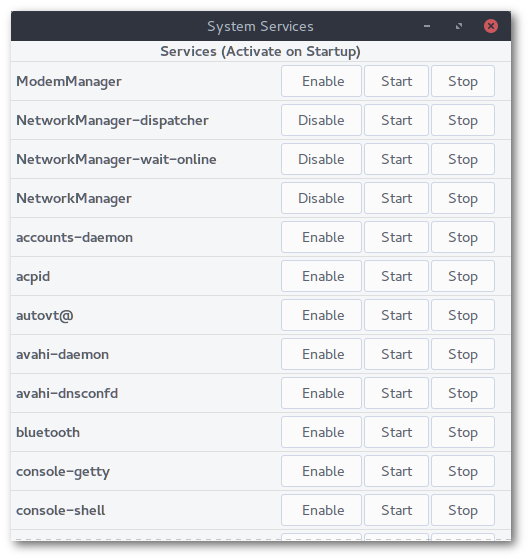
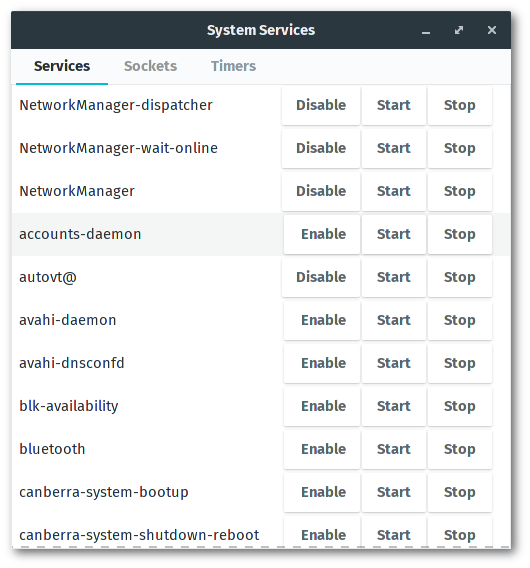
GUI Overhaul and Documentation Fixes

diff --git a/src/systemd_gui.rs b/src/systemd_gui.rs
@@ -1,21 +1,115 @@
-extern crate pango;  // Allows manipulating font styles
 use systemd_dbus;    // The dbus-based backend for systemd
 use gtk;
 use gtk::prelude::*;
 use gdk::enums::key;
 
+/// Performs a loop over a list of units and creates a widget from each.
+macro_rules! collect_units {
+    ($filter_function:ident, $list:expr, $units:expr) => {
+        for unit in systemd_dbus::$filter_function($units) {
+            let unit_widget = get_unit_widget(unit);
+            let row = gtk::ListBoxRow::new();
+            row.add(&unit_widget);
+            row.set_selectable(false);
+            $list.insert(&row, -1);
+        }
+    }
+}
+
+/// Takes either a &str or String and returns a String with directory paths removed
+macro_rules! rm_directory_path {
+    ($input:expr) => {{
+        let temp = $input;
+        let mut split: Vec<&str> = temp.split('/').collect();
+        String::from(split.pop().unwrap())
+    }}
+}
+
+pub struct Tabs {
+    notebook: gtk::Notebook,
+    tabs:     Vec<gtk::Box>,
+}
+
+impl Default for Tabs {
+    fn default() -> Tabs {
+        Tabs {
+            notebook: gtk::Notebook::new(),
+            tabs: Vec::new(),
+        }
+    }
+}
+
+impl Tabs {
+    pub fn create_tab(&mut self, title: &str, widget: &gtk::Widget) -> Option<u32> {
+        let label = gtk::Label::new(Some(title));
+        let tab = gtk::Box::new(gtk::Orientation::Horizontal, 0);
+
+        tab.pack_start(&label, true, true, 0);
+        tab.show_all();
+
+        let index = self.notebook.append_page(widget, Some(&tab));
+        self.tabs.push(tab);
+        Some(index)
+    }
+}
+
+/// Launches the GTK3 GUI
 pub fn launch() {
     gtk::init().unwrap_or_else(|_| panic!("Failed to initialize GTK."));
 
+    // A list of units available on the system
     let unit_files = systemd_dbus::list_unit_files(systemd_dbus::SortMethod::Name);
-    let container = gtk::ScrolledWindow::new(None, None);
-    generate_services(&container, &unit_files);
 
+    // Creates the list of unit files as GTK widgets
+    let services = gtk::ListBox::new();
+    let sockets = gtk::ListBox::new();
+    let timers = gtk::ListBox::new();
+    collect_units!(collect_togglable_services, services, &unit_files.clone());
+    collect_units!(collect_togglable_sockets, sockets, &unit_files.clone());
+    collect_units!(collect_togglable_timers, timers, &unit_files.clone());
+
+    // A structure for holding each of the tabs
+    let mut tabs = Tabs::default();
+
+    // Create the services tab
+    let services_scroll = gtk::ScrolledWindow::new(None, None);
+    let services_box = gtk::Box::new(gtk::Orientation::Vertical, 0);
+    services_scroll.add(&services);
+    services_box.pack_start(&services_scroll, true, true, 0);
+    let services_container: gtk::Widget = services_box.upcast();
+    tabs.create_tab("Services", &services_container);
+
+    // Create the sockets tab
+    let sockets_scroll = gtk::ScrolledWindow::new(None, None);
+    let sockets_box = gtk::Box::new(gtk::Orientation::Vertical, 0);
+    sockets_scroll.add(&sockets);
+    sockets_box.pack_start(&sockets_scroll, true, true, 0);
+    let sockets_container: gtk::Widget = sockets_box.upcast();
+    tabs.create_tab("Sockets", &sockets_container);
+
+    // Create the timers tab
+    let timers_scroll = gtk::ScrolledWindow::new(None, None);
+    let timers_box = gtk::Box::new(gtk::Orientation::Vertical, 0);
+    timers_scroll.add(&timers);
+    timers_box.pack_start(&timers_scroll, true, true, 0);
+    let timers_container: gtk::Widget = timers_box.upcast();
+    tabs.create_tab("Timers", &timers_container);
+
+    // Add the tabs to a container
+    let container = gtk::Box::new(gtk::Orientation::Vertical, 0);
+    container.pack_start(&tabs.notebook, true, true, 0);
+
+    // Create the window and add the container to the window
     let window = gtk::Window::new(gtk::WindowType::Toplevel);
-    configure_main_window(&window);
-
+    window.set_title("System Services");
+    window.set_default_size(500,500);
     window.add(&container);
     window.show_all();
+
+    window.connect_delete_event(|_, _| {
+        gtk::main_quit();
+        gtk::Inhibit(true)
+    });
 
     // Define action on key press
     window.connect_key_press_event(move |_, key| {
@@ -26,68 +120,7 @@ pub fn launch() {
     gtk::main();
 }
 
-// create_list_widget! creates the widgets for each section
-macro_rules! create_list_widget {
-    ($label:expr, $label_font:expr, $top:expr) => {{
-        let list = gtk::Box::new(gtk::Orientation::Vertical, 0);
-        if !$top { list.add(&gtk::Separator::new(gtk::Orientation::Horizontal)); }
-        let label = gtk::Label::new(Some($label));
-        label.override_font(&$label_font);
-        list.pack_start(&label, true, true, 0);
-        list
-    }};
-}
-
-// collect_units performs a loop over a list of units and creates a widget from each.
-macro_rules! collect_units {
-    ($filter_function:ident, $list:expr, $units:expr) => {
-        for unit in systemd_dbus::$filter_function($units) {
-            $list.add(&gtk::Separator::new(gtk::Orientation::Horizontal));
-            $list.pack_start(&get_unit_widget(unit), false, false, 3);
-        }
-    }
-}
-
-// rm_directory_path takes either a &str or String and returns a String with directory paths removed
-macro_rules! rm_directory_path {
-    ($input:expr) => {{
-        let temp = $input;
-        let mut split: Vec<&str> = temp.split('/').collect();
-        String::from(split.pop().unwrap())
-    }}
-}
-
-/// Configures all of the options for the main window
-fn configure_main_window(window: &gtk::Window) {
-    window.set_title("System Services");
-    window.set_default_size(500,500);
-    window.connect_delete_event(|_, _| {
-        gtk::main_quit();
-        gtk::Inhibit(true)
-    });
-}
-
-// generate_services() creates a gtk::ScrolledWindow widget containing the list of units available
-// on the system. Each individual unit is created by get_unit_widget() and added to their respective
-// gtk::Box.
-fn generate_services(container: &gtk::ScrolledWindow, unit_files: &[systemd_dbus::SystemdUnit]) {
-    let mut label_font = pango::FontDescription::new();
-    label_font.set_weight(pango::Weight::Medium);
-
-    let service_list = create_list_widget!("Services (Activate on Startup)", label_font, true);
-    let socket_list  = create_list_widget!("Sockets (Activate On Use)", label_font, false);
-    let timer_list   = create_list_widget!("Timers (Activate Periodically)", label_font, false);
-
-    collect_units!(collect_togglable_services, service_list, unit_files.clone());
-    collect_units!(collect_togglable_sockets, socket_list, unit_files.clone());
-    collect_units!(collect_togglable_timers, timer_list, unit_files.clone());
-
-    service_list.add(&socket_list);
-    service_list.add(&timer_list);
-    container.add(&service_list);
-}
-
-// Removes the directory path and extension from the unit name
+/// Removes the directory path and extension from the unit name
 fn get_unit_name(x: &str) -> String {
     let mut output = rm_directory_path!(x);
     let mut last_occurrence: usize = 0;
@@ -98,7 +131,7 @@ fn get_unit_name(x: &str) -> String {
     output
 }
 
-// get_unit_widget() takes a SystemdUnit and generates a gtk::Box widget from that information.
+/// Takes a `SystemdUnit` and generates a `gtk::Box` widget from that information.
 fn get_unit_widget(unit: systemd_dbus::SystemdUnit) -> gtk::Box {
     let switch = match unit.state {
         systemd_dbus::UnitState::Disabled => gtk::Button::new_with_label(" Enable"),
@@ -144,11 +177,7 @@ fn get_unit_widget(unit: systemd_dbus::SystemdUnit) -> gtk::Box {
         });
     }
 
-    let mut label_font = pango::FontDescription::new();
-    label_font.set_weight(pango::Weight::Medium);
     let label = gtk::Label::new(Some(&get_unit_name(&unit.name)));
-    label.override_font(&label_font);
-
     let button_box = gtk::Box::new(gtk::Orientation::Horizontal, 0);
     button_box.pack_start(&switch, false, false, 1);
     button_box.pack_start(&start_button, false, false, 1);
@@ -162,6 +191,7 @@ fn get_unit_widget(unit: systemd_dbus::SystemdUnit) -> gtk::Box {
     layout
 }
 
+/// Prints an error dialog with the included message.
 fn print_dialog(message: &str) {
     let dialog = gtk::Dialog::new();
     dialog.set_title("Systemd Error");

diff --git a/src/systemd_dbus.rs b/src/systemd_dbus.rs
@@ -1,7 +1,7 @@
 extern crate dbus;
 use std::path::Path;
 
-// dbus_message takes a systemd dbus function as input and returns the result as a dbus::Message.
+/// Takes a systemd dbus function as input and returns the result as a `dbus::Message`.
 macro_rules! dbus_message {
     ($function:expr) => {{
         dbus::Message::new_method_call("org.freedesktop.systemd1",
@@ -10,7 +10,7 @@ macro_rules! dbus_message {
     }}
 }
 
-// dbus_connect takes a dbus::Message as input and makes a connection to dbus, returning the reply
+/// Takes a `dbus::Message` as input and makes a connection to dbus, returning the reply.
 macro_rules! dbus_connect {
     ($message:expr) => {
         dbus::Connection::get_private(dbus::BusType::System).unwrap().
@@ -28,7 +28,7 @@ pub struct SystemdUnit {
 #[derive(Clone, PartialEq, Eq)]
 pub enum UnitType { Automount, Busname, Mount, Path, Scope, Service, Slice, Socket, Target, Timer }
 impl UnitType {
-    // Takes the pathname of the unit as input to determine what type of unit it is.
+    /// Takes the pathname of the unit as input to determine what type of unit it is.
     pub fn new(pathname: &str) -> UnitType {
         match Path::new(pathname).extension().unwrap().to_str().unwrap() {
             "automount" => UnitType::Automount,
@@ -49,8 +49,8 @@ impl UnitType {
 #[derive(Clone, PartialEq, Eq)]
 pub enum UnitState { Bad, Disabled, Enabled, Indirect, Linked, Masked, Static }
 impl UnitState {
-    // Takes the string containing the state information from the dbus message and converts it
-    // into a UnitType by matching the first character.
+    /// Takes the string containing the state information from the dbus message and converts it
+    /// into a UnitType by matching the first character.
     pub fn new(x: &str) -> UnitState {
         let x_as_chars: Vec<char> = x.chars().skip(6).take_while(|x| *x != '\"').collect();
         match x_as_chars[0] {
@@ -69,10 +69,9 @@ impl UnitState {
 #[allow(dead_code)]
 pub enum SortMethod { Name, StateDisabled, StateEnabled }
 
-// list_unit_files() communicates with dbus to obtain a list of unit files and returns them as a
-// vector of SystemdUnits.
+/// Communicates with dbus to obtain a list of unit files and returns them as a `Vec<SystemdUnit>`.
 pub fn list_unit_files(sort_method: SortMethod) -> Vec<SystemdUnit> {
-    // parse_message takes the dbus message as input and maps the information to a Vec<SystemdUnit>
+    /// Takes the dbus message as input and maps the information to a `Vec<SystemdUnit>`.
     fn parse_message(input: &str, sort_method: SortMethod) -> Vec<SystemdUnit> {
         let message = {
             let mut output: String = input.chars().skip(7).collect();
@@ -114,29 +113,29 @@ pub fn list_unit_files(sort_method: SortMethod) -> Vec<SystemdUnit> {
     parse_message(&format!("{:?}", message), sort_method)
 }
 
-// collect_togglable_services takes a Vec<SystemdUnit> as input and returns a new vector only
-// containing services which can be enabled and disabled.
+/// Takes a `Vec<SystemdUnit>` as input and returns a new vector only containing services which can be enabled and
+/// disabled.
 pub fn collect_togglable_services(units: &[SystemdUnit]) -> Vec<SystemdUnit> {
     units.iter().filter(|x| x.utype == UnitType::Service && (x.state == UnitState::Enabled ||
         x.state == UnitState::Disabled) && !x.name.contains("/etc/")).cloned().collect()
 }
 
-// collect_togglable_sockets takes a Vec<SystemdUnit> as input and returns a new vector only
-// containing sockets which can be enabled and disabled.
+/// Takes a `Vec<SystemdUnit>` as input and returns a new vector only containing sockets which can be enabled and
+/// disabled.
 pub fn collect_togglable_sockets(units: &[SystemdUnit]) -> Vec<SystemdUnit> {
     units.iter().filter(|x| x.utype == UnitType::Socket && (x.state == UnitState::Enabled ||
         x.state == UnitState::Disabled)).cloned().collect()
 }
 
-// collect_togglable_timers takes a Vec<SystemdUnit> as input and returns a new vector only
-// containing timers which can be enabled and disabled.
+/// Takes a `Vec<SystemdUnit>` as input and returns a new vector only containing timers which can be enabled and
+/// disabled.
 pub fn collect_togglable_timers(units: &[SystemdUnit]) -> Vec<SystemdUnit> {
     units.iter().filter(|x| x.utype == UnitType::Timer && (x.state == UnitState::Enabled ||
         x.state == UnitState::Disabled)).cloned().collect()
 }
 
-// enable takes the unit pathname of a service and enables it via dbus.
-// If dbus replies with `[Bool(true), Array([], "(sss)")]`, the service is already enabled.
+/// Takes the unit pathname of a service and enables it via dbus.
+/// If dbus replies with `[Bool(true), Array([], "(sss)")]`, the service is already enabled.
 pub fn enable(unit: &str) -> Option<String> {
     let mut message = dbus_message!("EnableUnitFiles");
     message.append_items(&[[unit][..].into(), false.into(), true.into()]);
@@ -157,8 +156,8 @@ pub fn enable(unit: &str) -> Option<String> {
     }
 }
 
-// disable takes the unit pathname as input and disables it via dbus.
-// If dbus replies with `[Array([], "(sss)")]`, the service is already disabled.
+/// Takes the unit pathname as input and disables it via dbus.
+/// If dbus replies with `[Array([], "(sss)")]`, the service is already disabled.
 pub fn disable(unit: &str) -> Option<String> {
     let mut message = dbus_message!("DisableUnitFiles");
     message.append_items(&[[unit][..].into(), false.into()]);
@@ -179,7 +178,7 @@ pub fn disable(unit: &str) -> Option<String> {
     }
 }
 
-// start takes a unit name as input and attempts to start it
+/// Takes a unit name as input and attempts to start it
 pub fn start(unit: &str) -> Option<String> {
     let mut message = dbus_message!("StartUnit");
     message.append_items(&[unit.into(), "fail".into()]);
@@ -197,7 +196,7 @@ pub fn start(unit: &str) -> Option<String> {
     }
 }
 
-// stop takes a unit name as input and attempts to stop it.
+/// Takes a unit name as input and attempts to stop it.
 pub fn stop(unit: &str) -> Option<String> {
     let mut message = dbus_message!("StopUnit");
     message.append_items(&[unit.into(), "fail".into()]);
